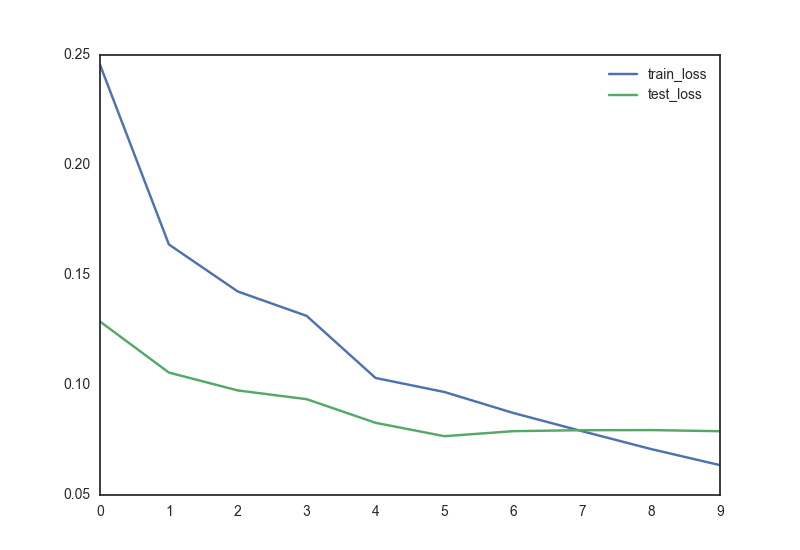
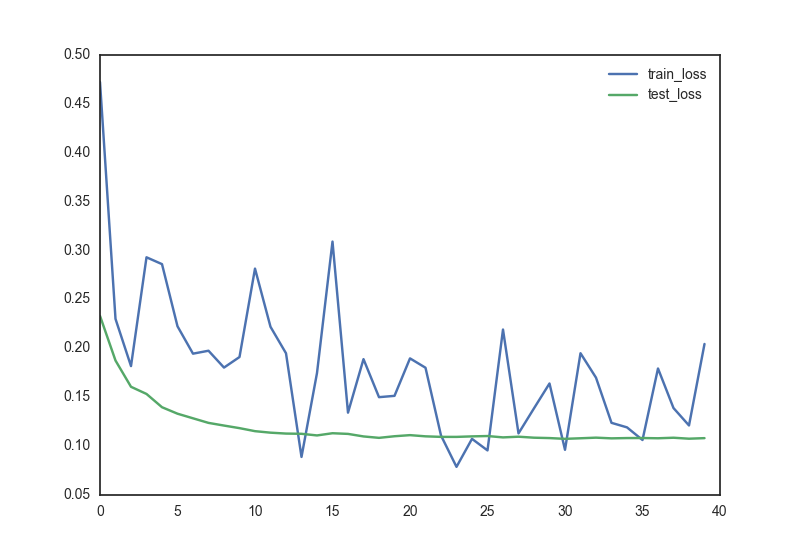
batch_norm + dropout

diff --git a/tensorflow-models/mlp_clf_test.py b/tensorflow-models/mlp_clf_test.py
@@ -25,7 +25,7 @@ if __name__ == '__main__':
 
     sess = tf.Session()
     clf = MLPClassifier(n_in=28*28, hidden_unit_list=[100, 200, 100], n_out=10, sess=sess)
-    log = clf.fit(X_train, y_train, en_exp_decay=True, val_data=(X_test, y_test), dropout=1.0)
+    log = clf.fit(X_train, y_train, n_epoch=40, en_exp_decay=True, val_data=(X_test, y_test), dropout=0.5)
     pred = clf.predict(X_test)
     tf.reset_default_graph()
     final_acc = np.equal(np.argmax(pred, 1), np.argmax(y_test, 1)).astype(float).mean()

diff --git a/tensorflow-models/mlp_clf.py b/tensorflow-models/mlp_clf.py
@@ -37,6 +37,7 @@ class MLPClassifier:
         forward = [self.n_in] + self.hidden_unit_list
         for i in range( len(forward)-1 ):
             new_layer = self.fc('layer%s'%i, new_layer, forward[i], forward[i+1])
+            new_layer = tf.contrib.layers.batch_norm(new_layer)
             new_layer = tf.nn.relu(new_layer)
             new_layer = tf.nn.dropout(new_layer, self.keep_prob)
         self.mlp_out = new_layer
